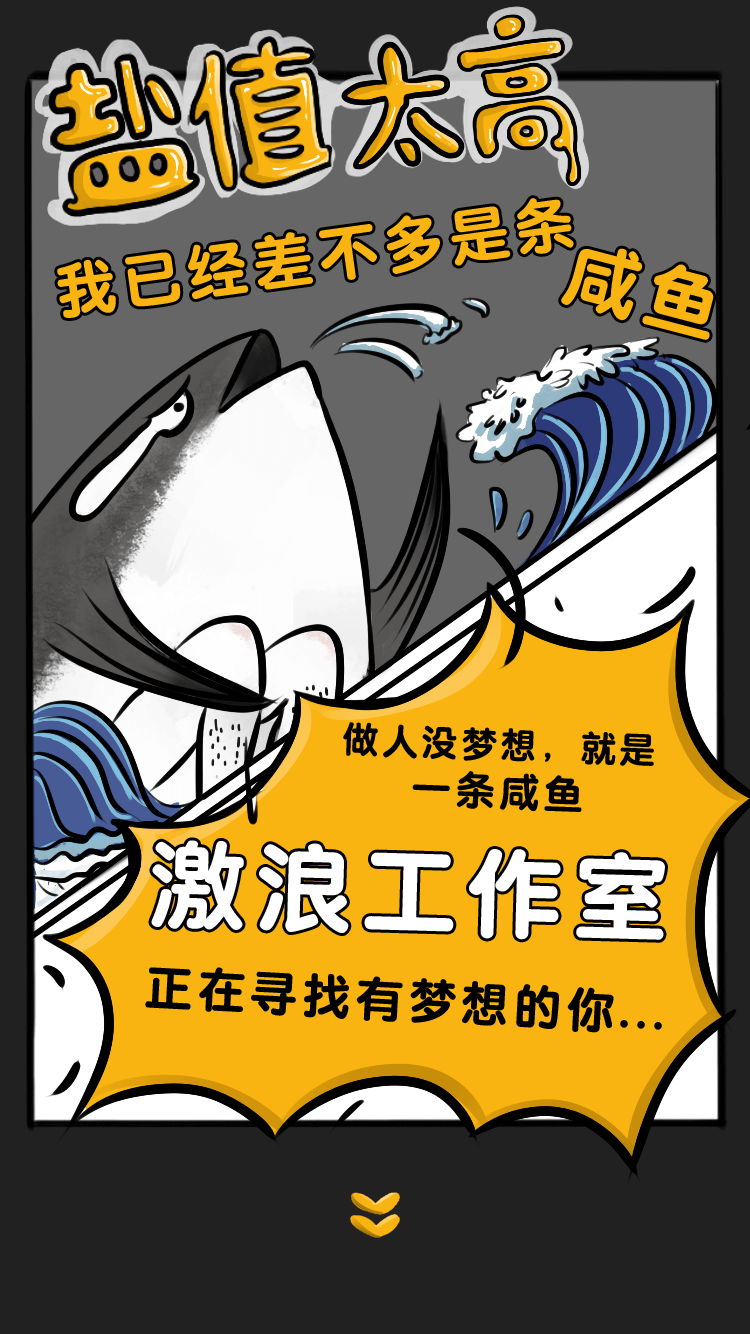
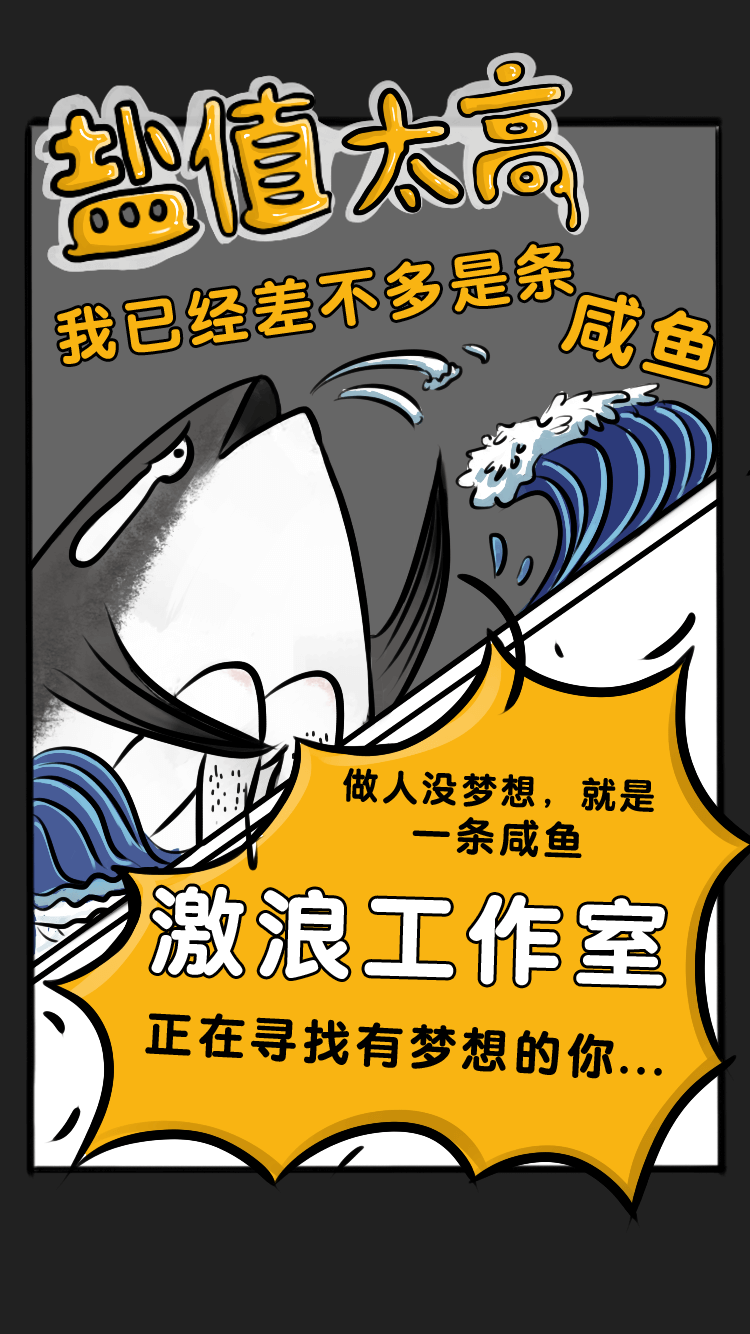
lin

diff --git a/css/main.css b/css/main.css
@@ -2,9 +2,10 @@
 html, body {
     position: relative;
     height: 100%;
+
 }
 body {
-    background: #eee;
+    background-color: #212121;
     font-family: Helvetica Neue, Helvetica, Arial, sans-serif;
     font-size: 14px;
     color:#000;
@@ -51,58 +52,81 @@ input {-webkit-appearance:none; /*去除input默认样式*/}
     to {transform:rotate(360deg);}
 }
 
-/*.slider-logo {
-    position: fixed;
-    z-index: 100;
-    width: 0.5rem;
-    height: 0.46rem;
-    margin: auto;
-    left: 0;
-    right: 0;
-    bottom: 0.96rem;
-}*/
+
 .page1 {
-    background: #ffffff url('../img/page-1.png') center 0 no-repeat;
+    background: #212121 url('../img/page-1.png') center 0 no-repeat;
 }
 .page2 {
-    background: #ffffff url('../img/page-2.png') center 0 no-repeat;
+    background: #212121 url('../img/page-2.png') center 0 no-repeat;
 }
 .page3 {
-    background: #ffffff url('../img/page-3.png') center 0 no-repeat;
+    background: #212121 url('../img/page-3.png') center 0 no-repeat;
 }
 .page4 {
-    background: #ffffff url('../img/page-4.png') center 0 no-repeat;
+    background: #212121 url('../img/page-4.png') center 0 no-repeat;
 }
 .page5 {
-    background: #ffffff url('../img/page-5.png') center 0 no-repeat;
+    background: #212121 url('../img/page-5.png') center 0 no-repeat;
 }
 .page6 {
-    background: #ffffff url('../img/page-6.png') center 0 no-repeat;
+    background: #212121 url('../img/page-6.png') center 0 no-repeat;
 }
 .page7 {
-    background: #ffffff url('../img/page-7.png') center 0 no-repeat;
+    background: #212121 url('../img/page-7.png') center 0 no-repeat;
 }
 .page8 {
-    background: #ffffff url('../img/page-8.png') center 0 no-repeat;
+    background: #212121 url('../img/page-8.png') center 0 no-repeat;
 }
 .page9 {
-    background: #ffffff url('../img/page-9.png') center 0 no-repeat;
+    background: #212121 url('../img/page-9.png') center 0 no-repeat;
 }
 .swiper-slide{
-    -webkit-background-size: 100% 100%;
-    background-size: 100% 100%;
+    -webkit-background-size: 100%;
+    background-size: 100%;
 }
 #form {
     position: absolute;
-    top: 46.1%;
+    top: 6.5rem;
     left: 47%;
-    height: 18%;
+    height: 19%;
 }
+#form .select {
+    width: 73%;
+    height: 0.64rem;
+    position: relative;
+}
+/*#form .select::after {
+    content: "▼";
+    display: inline;
+    font-size: 0.24rem;
+    position: absolute;
+    bottom: 0;
+    top: 20%;
+    right: -20%;
+    margin: auto;
+}*/
+#form #sel {
+    position: absolute;
+    width: 100%;
+    top: 5%;
+    bottom: 0;
+    margin: auto;
+    left: 0;
+    background-color: transparent;
+    border: none;
+}
+
 #form input[type="text"] {
     background: transparent;
     display: block;
     width: 100%;
-    height: 25%;
+    height: 0.64rem;
+    line-height: 0;
+}
+#form #sel:active{
+    outline: none;
+    -webkit-tap-highlight-color: rgba(0,0,0,0);
+    -webkit-appearance: none;
 }
 .page9 .submit {
     width: 1.76rem;
@@ -111,7 +135,7 @@ input {-webkit-appearance:none; /*去除input默认样式*/}
     left: 0;
     right: 0;
     margin: auto;
-    top: 68%;
+    top: 9.38rem;
 }
 #alert {
     position: fixed;
@@ -153,5 +177,27 @@ input {-webkit-appearance:none; /*去除input默认样式*/}
     background-color: transparent;
     outline: none;
     border: none;
-
+}
+.pic-anim {
+    width: 0.5rem;
+    height: 0.46rem;
+    position: absolute;
+    bottom: 1.1rem;
+    margin: auto;
+    left: 0;
+    right:0;
+    animation: hint 1.4s linear infinite;
+}
+@keyframes hint {
+    0% {
+        opacity: 0.4;
+        bottom: 1.1rem;
+    }
+    80% {
+        opacity: 1;
+        bottom: 1.0rem;
+    }
+    100% {
+        opacity: 0;
+    }
 }

diff --git a/js/main.js b/js/main.js
@@ -11,6 +11,14 @@ $(function () {
     // 背景音乐播放
     var flag = true,
         audio = document.querySelector('audio');
+
+    document.addEventListener("WeixinJSBridgeReady", function () {
+        audio.play();
+    }, false);
+    document.addEventListener('YixinJSBridgeReady', function() {
+        audio.play();
+    }, false);
+
     $('#musc').on('click', function () {
         if (flag) {
             $(this).removeClass('anim');
@@ -31,15 +39,15 @@ $(function () {
         var $usename = $('input[name="usename"]'),
             $phone = $('input[name="phone"]'),
             $profession = $('input[name="profession"]'),
-            $purpose = $('input[name="purpose"]');
-        if ( $usename.val() != '' &&  $phone.val() != '' && $profession.val() != '' && $purpose.val() != '' ) {
+            $selct = $("#sel");
+        if ( $usename.val() != '' &&  $phone.val() != '' && $profession.val() != '' && $selct.val() != '0' ) {
             $.ajax({
-                url:'',
+                url:'/main/2017/jilang2/index.php/Home/Index/submit',
                 data:{
-                    usename:$usename.val(),
-                    phone:$phone.val(),
-                    profession:$profession.val(),
-                    purpose:$purpose.val()
+                    name:$usename.val(),
+                    mobile:$phone.val(),
+                    major:$profession.val(),
+                    intentional_post:$selct.val()
                 },
                 type:'POST',
                 success:function (data) {

diff --git a/index.html b/index.html
@@ -29,7 +29,17 @@
                 <input type="text" name="usename" >
                 <input type="text" name="phone" >
                 <input type="text" name="profession">
-                <input type="text" name="purpose">
+                <div class="select">
+                    <select name="" id="sel" >
+                        <option value="0">请选择</option>
+                        <option value="编辑">编辑</option>
+                        <option value="记者">记者</option>
+                        <option value="摄像">摄像</option>
+                        <option value="设计">设计</option>
+                        <option value="后勤">后勤</option>
+                        <option value="前端工程师">前端工程师</option>
+                    </select>
+                </div>
             </div>
             <img class="submit" src="img/submit.png" alt="">
         </div>
